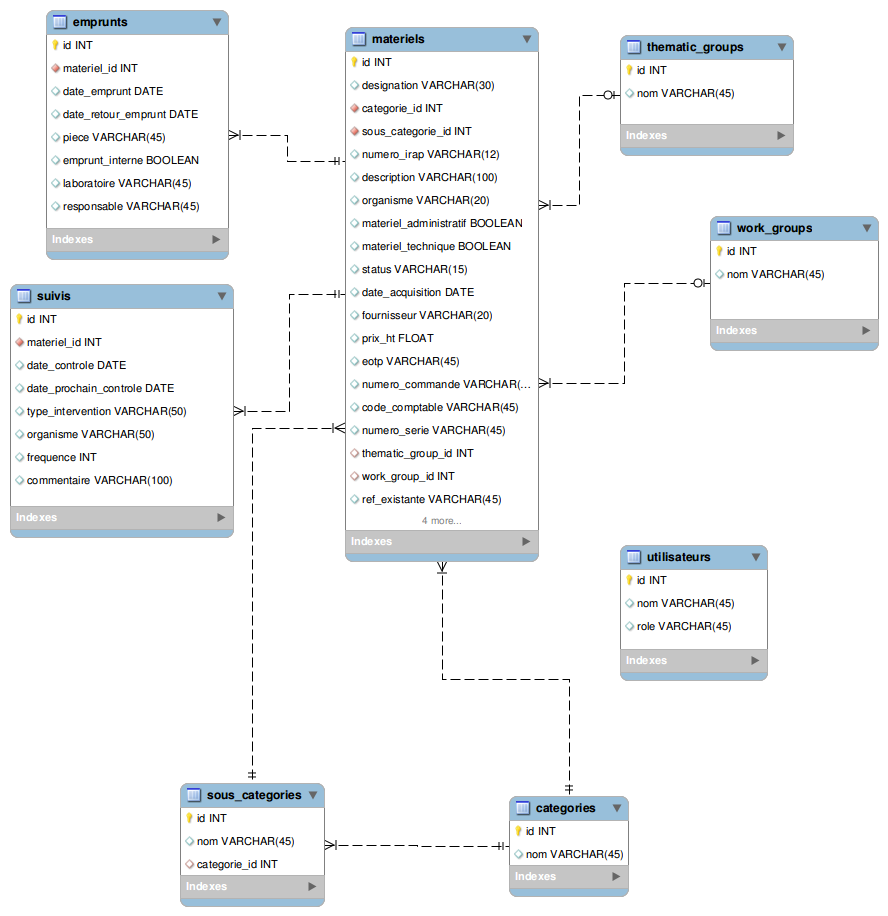
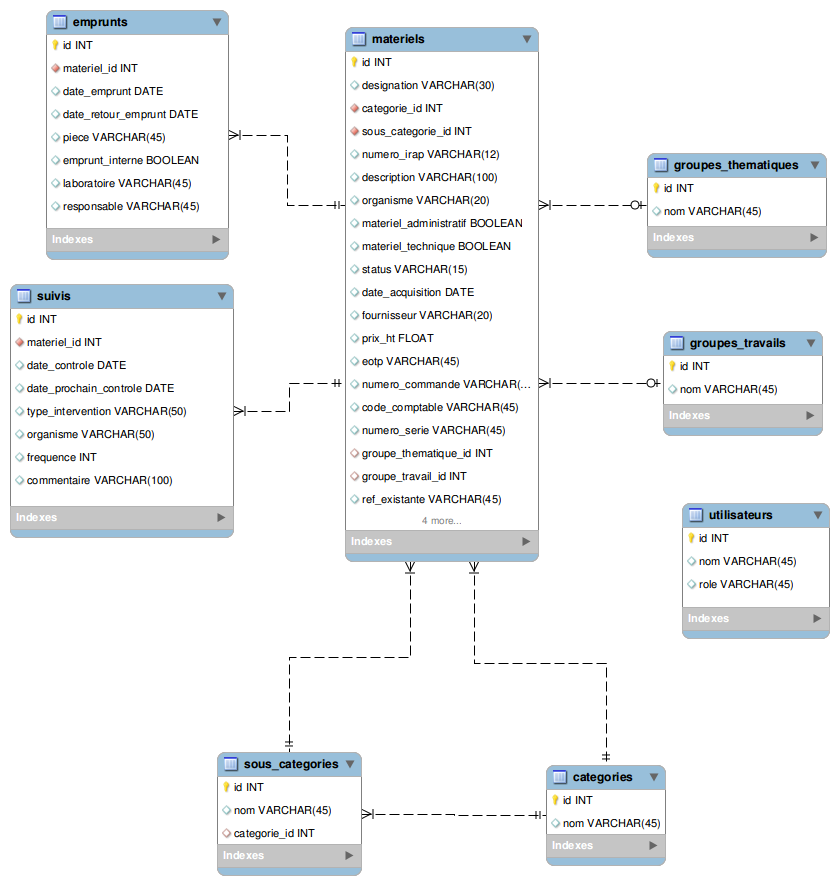
Rename thematic to thematique and work to travail

diff --git a/cakephp/app/Model/Materiel.php b/cakephp/app/Model/Materiel.php
@@ -5,7 +5,7 @@ class Materiel extends AppModel {
 	var $virtualFields = array('full_storage' => 'CONCAT(lieu_stockage, "-", lieu_detail)');
 	public $displayField = 'designation';
 	
-	public $belongsTo = array('Categorie', 'SousCategorie', 'ThematicGroup', 'WorkGroup');
+	public $belongsTo = array('Categorie', 'SousCategorie', 'GroupesThematique', 'GroupesTravail');
 	public $hasMany = array('Suivi', 'Emprunt');
 			
 	var $validate = array(

diff --git a/cakephp/app/Controller/GroupesTravailsController.php b/cakephp/app/Controller/GroupesTravailsController.php
@@ -1,8 +1,10 @@
 <?php
-class ThematicGroupsController extends AppController {
+class GroupesTravailsController extends AppController {
     public $scaffold;
     
-    public function beforeFilter() {
+    public $name = 'GroupesTravail';
+    
+	public function beforeFilter() {
 		$userAuth = $this->Session->read('LdapUserAuthenticationLevel');
 		if ($userAuth == 4)
 			$this->LdapAuth->allow('*');

diff --git a/cakephp/app/Controller/GroupesThematiquesController.php b/cakephp/app/Controller/GroupesThematiquesController.php
@@ -1,6 +1,8 @@
 <?php
 class GroupesThematiquesController extends AppController {
     public $scaffold;
+
+    public $name = 'GroupesThematique';
     
     public function beforeFilter() {
 		$userAuth = $this->Session->read('LdapUserAuthenticationLevel');
